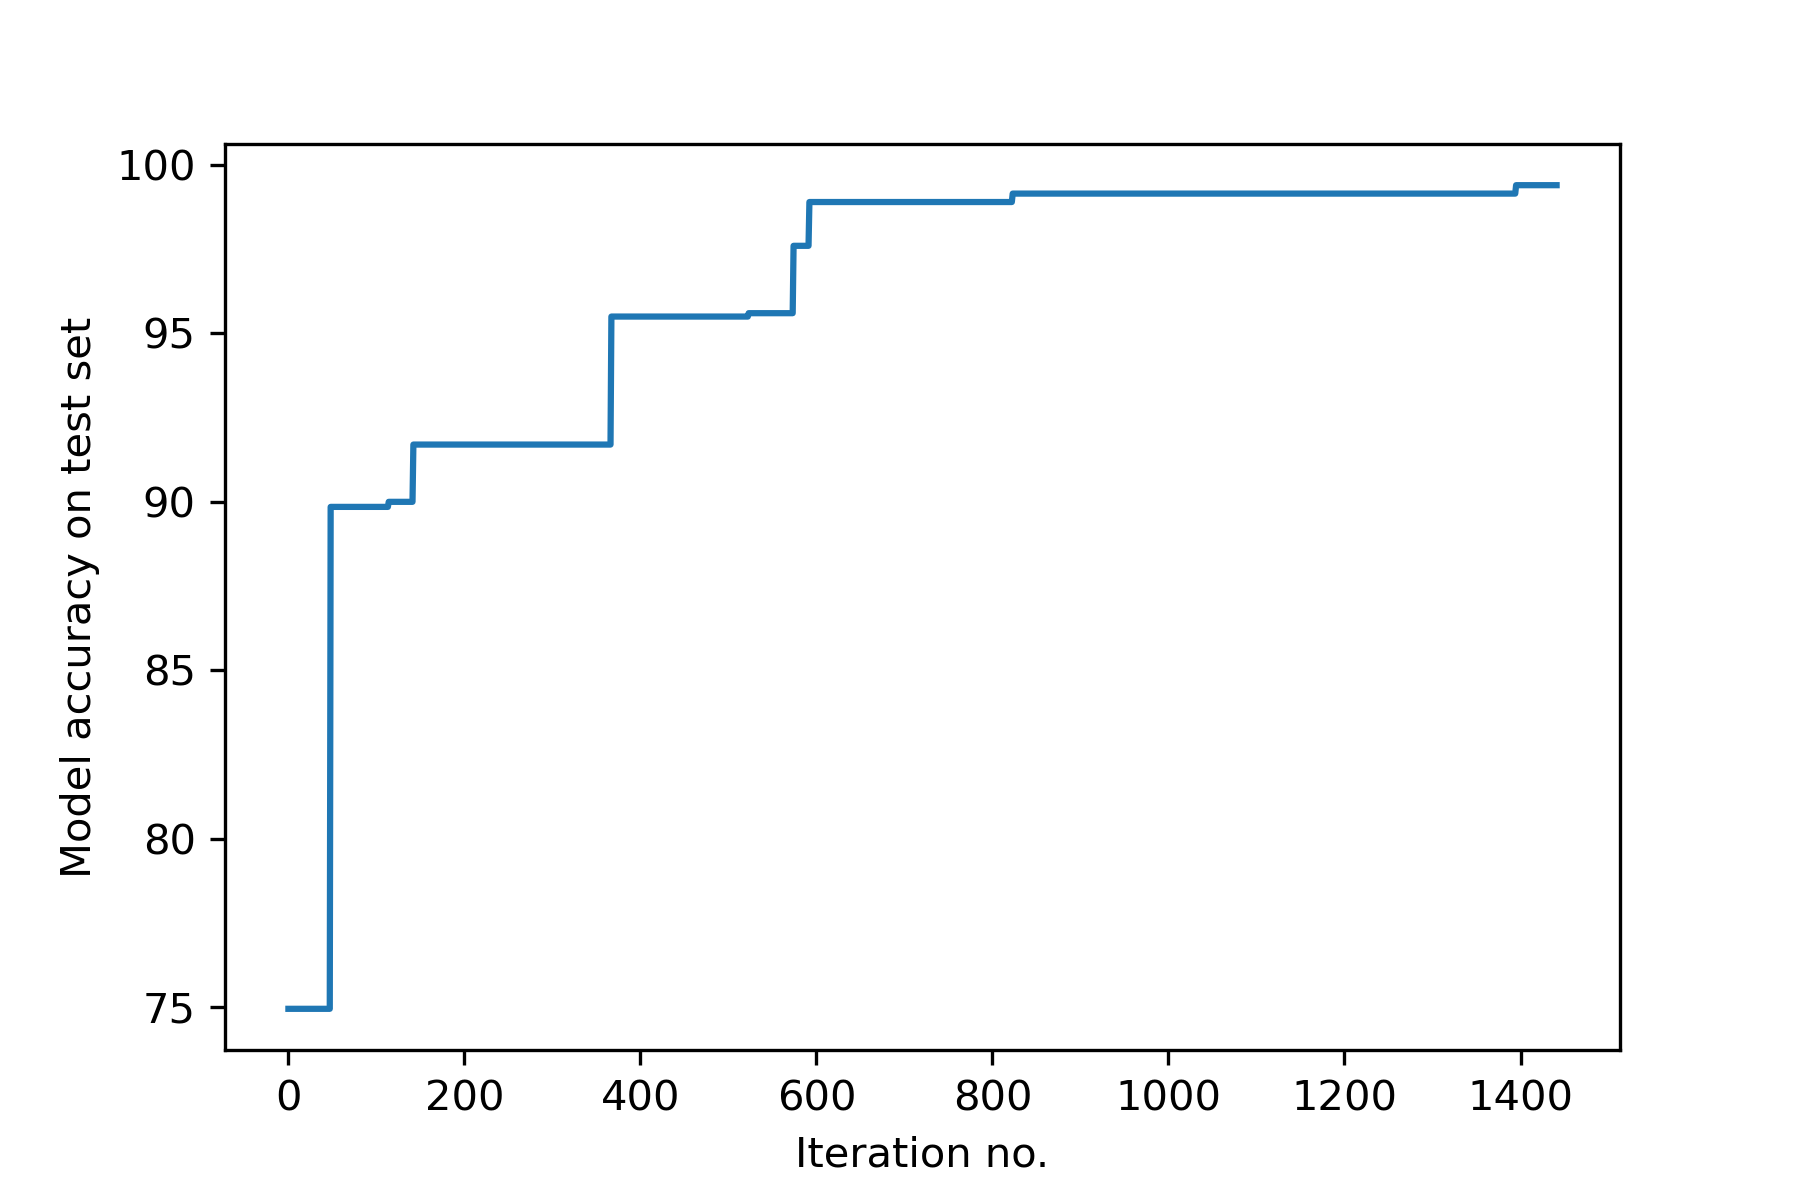
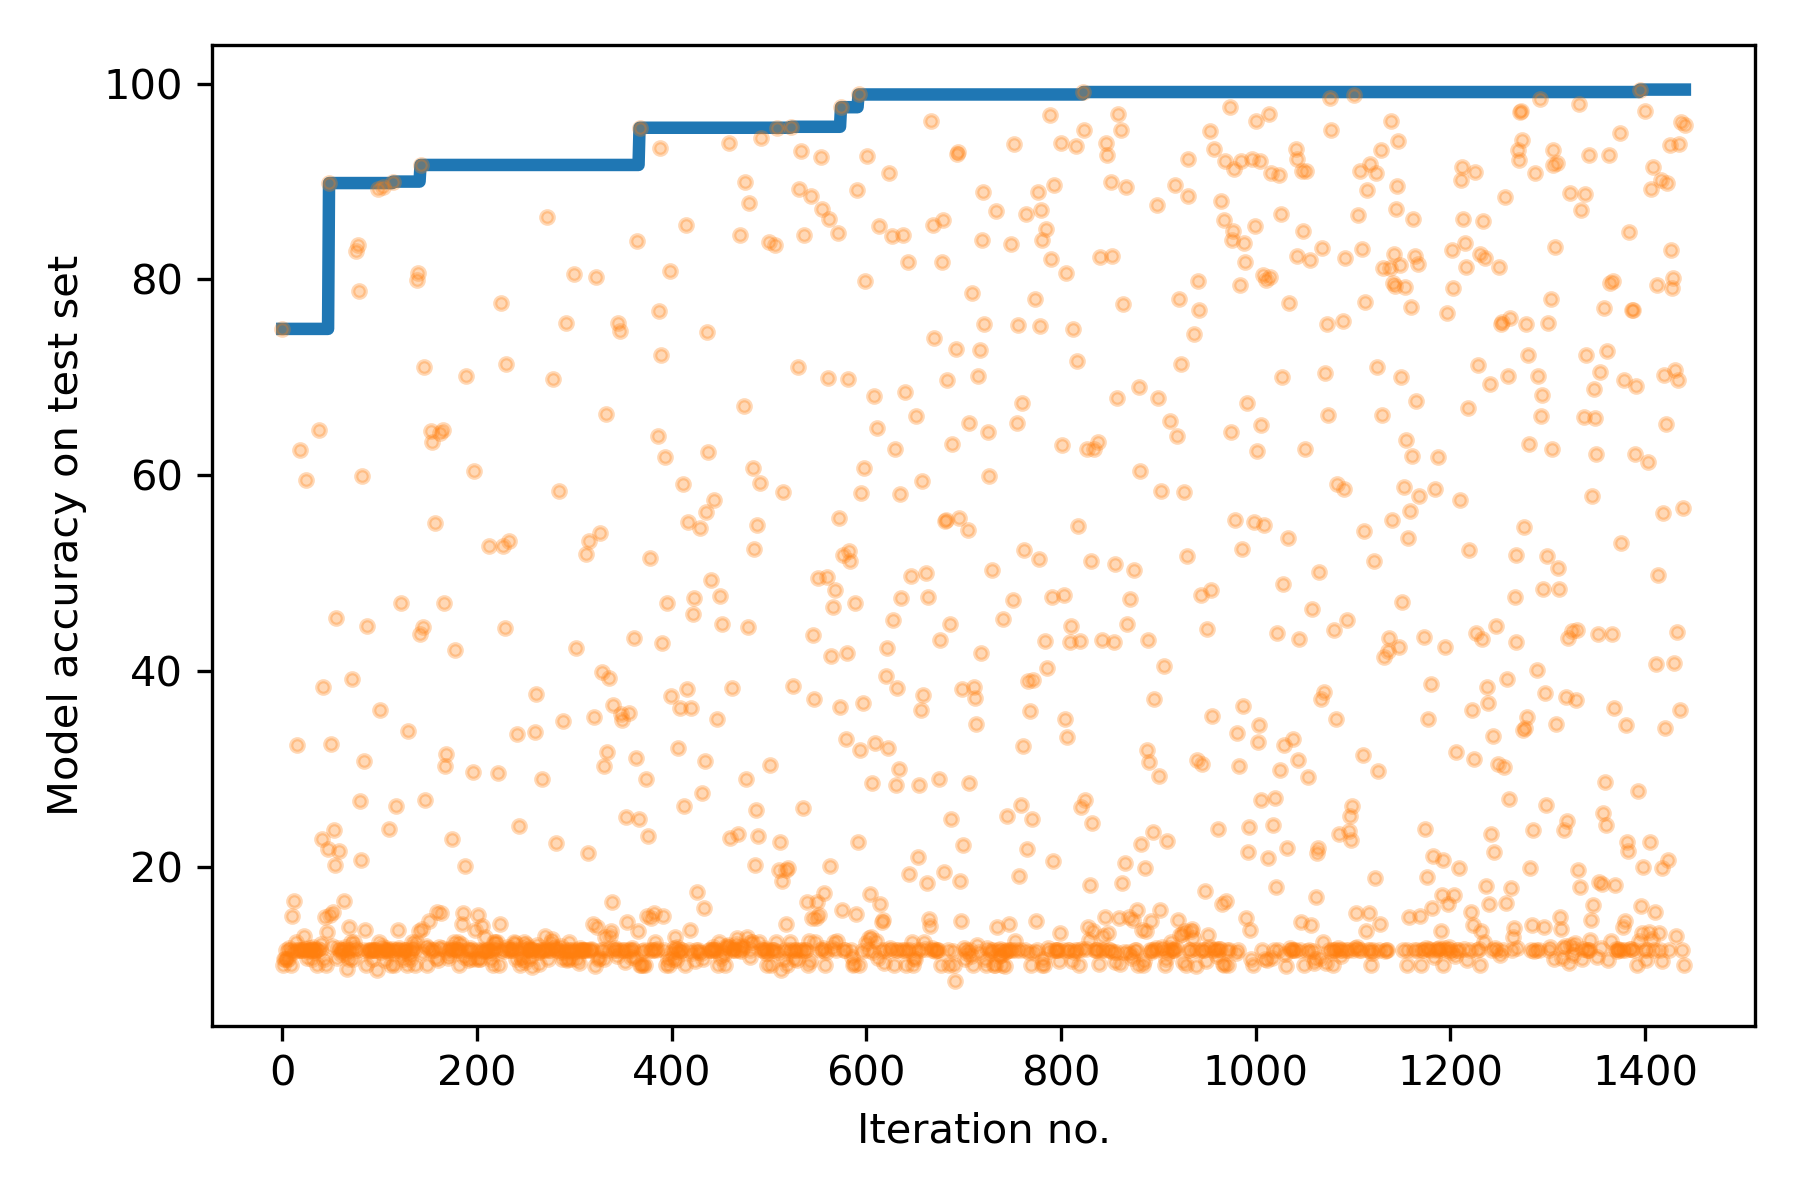
Results

diff --git a/README.md b/README.md
@@ -26,10 +26,11 @@ The Bayesian optimisation was based in a Gaussian Process (GP) as surrogate func
 
 
 ## RESULTS
-A summary of your results and what you can learn from your model 
+- The model performance was measured in terms of classification accuracy (acc) on an independent test set, containing 2 000 images. Several CNN configurations produce satisfying results. Around 30 configurations have acc > 95\%, after only 2 epochs of training. With 3 training epochs accuracies in excess of 99\% are found.
+- The progression of the optimisation is shown below:
+You can include images of plots using the code below: [optimisation of accuracy](acc_vs_optimization.png)
+- For more details, see 3_Load Bayesian optimisation results.ipynb.
 
-You can include images of plots using the code below:
-![Screenshot](image.png)
 
 ## CONTACT DETAILS
 Rui Vasconcelos is the author of this model and can be contacted through his personal email (alhavaite.rui@gmail.com) or Linkedin page (www.linkedin.com/in/rui-f-vasconcelos);

diff --git a/model_card.md b/model_card.md
@@ -29,7 +29,7 @@ This convolutional neural network model classifies pictures of the cross-section
 
 
 ## Performance
-- The model performance was measured in terms of classification accuracy (acc) on an independent test set, containing 2 000 images. Several configurations yield satisfying results. Around 30 configurations have acc > 95\%, after only 2 epochs of training. With 3 training epochs accuracies in excess of 99\% are found.
+- The model performance was measured in terms of classification accuracy (acc) on an independent test set, containing 2 000 images. Several CNN configurations produce satisfying results. Around 30 configurations have acc > 95\%, after only 2 epochs of training. With 3 training epochs accuracies in excess of 99\% are found.
 - For more details, see 3_Load Bayesian optimisation results.ipynb.
 
 ## Limitations
